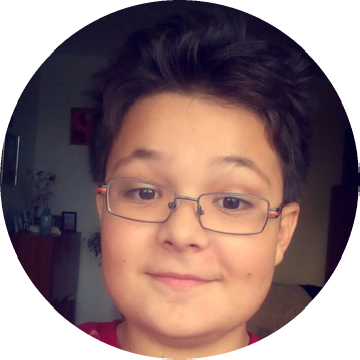
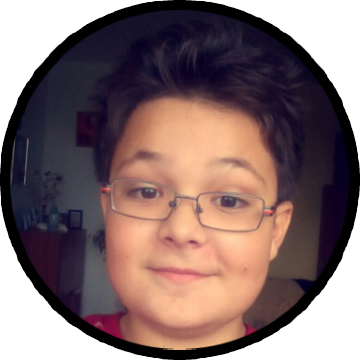
Initial Commit

diff --git a/index.html b/index.html
@@ -16,7 +16,7 @@
 </head>
 <body>
 	<form action="https://www.youtube.com/channel/UCMkm4rd1jiq9R7F5uRmu_ug">
-			<input class="ErikIcon" type="image" src="photo/ErikIcon.png" alt="avatar" width="70" height="70">
+			<input class="ErikIcon" type="image" src="photo/ErikIconBig.png" alt="avatar" width="70" height="70">
 		</form><br/>
 	<p align="center">
 		<b><font style="font-family:'Helvetica'" align size="50"> Erikove Videá</font></b>
@@ -113,5 +113,5 @@
 	<video width="550" controls>
 		<source src="video10.mp4" type="video/mp4">
 	</video>
-	</p><br/><br/>
+	</p>
 </html>
